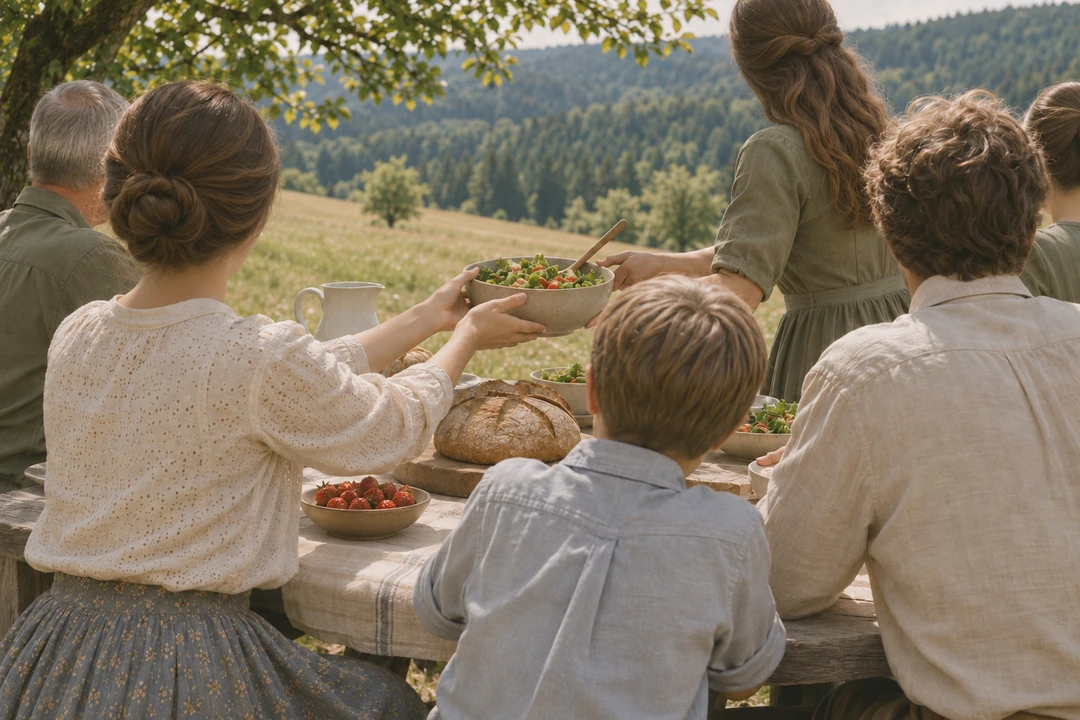
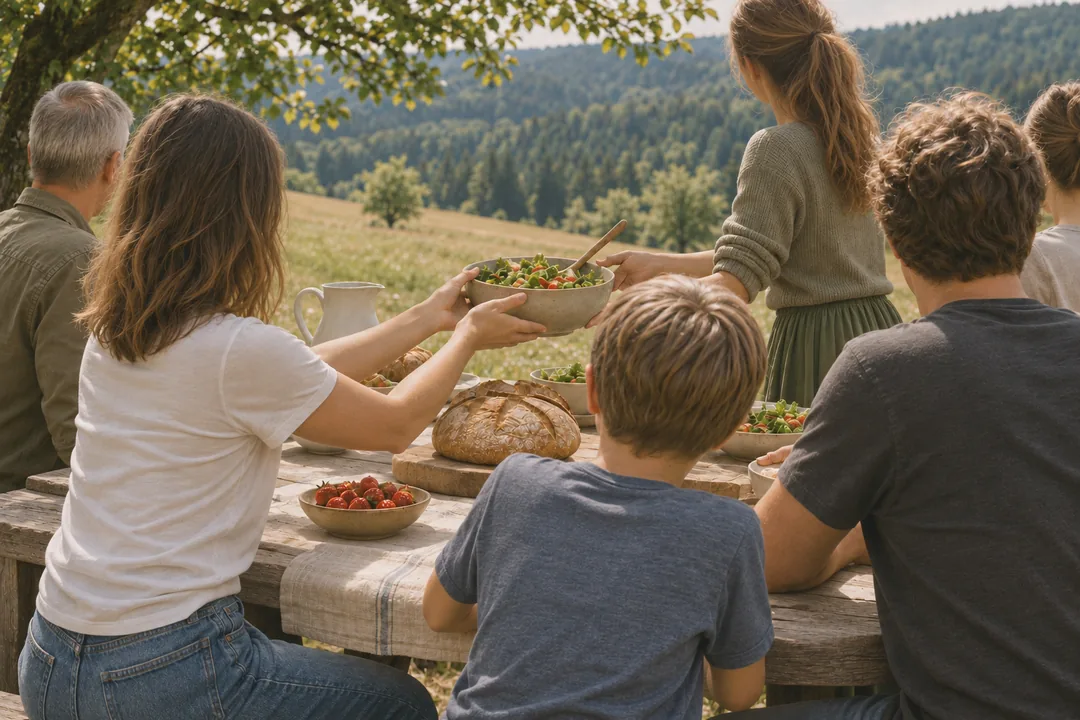
Bildpaket v3 (Alltagskleidung), Hinweis zum gemeinsamen Buchen
- Sieben Personenmotive und das Vorschaubild für geteilte Links durch das Bildpaket v3 ersetzt
- Unterkünfte: Kasten Zu zweit ein Haus teilen, Filter zeigt nötige Zustellbetten
- Anmeldung: Vorschlag passender Unterkünfte, wenn die Gruppe kleiner als die Mindestbelegung ist

diff --git a/src/components/booking/booking-wizard.tsx b/src/components/booking/booking-wizard.tsx
@@ -204,6 +204,48 @@ export function BookingWizard({
     goTo(2);
   }
 
+  /**
+   * Die Gruppe ist kleiner als die Mindestbelegung: Unterkünfte, die für eine Person weniger passen.
+   * Freie Unterkünfte zuerst.
+   */
+  const smallerGroup = range.min - 1;
+  const smallerOptions =
+    selectedType && !isSoldOut && smallerGroup >= 1
+      ? houseTypes
+          .filter((ht) => {
+            if (ht.id === selectedType.id) return false;
+            const r = guestRange(ht, rates.maxExtraBeds);
+            return smallerGroup >= r.min && smallerGroup <= r.max;
+          })
+          .map((ht) => ({
+            houseType: ht,
+            free: availability
+              ? (availability.find((a) => a.house_type_id === ht.id)?.available_count ?? 0)
+              : null,
+          }))
+          .filter((o) => o.free === null || o.free > 0)
+      : [];
+
+  /** Auf eine andere Unterkunft wechseln und die Gästeliste auf die gewünschte Größe bringen */
+  function switchHouseType(houseType: HouseType, wanted: number) {
+    if (houseType.id !== selectedTypeId) setSelectedHouseId(null);
+    setSelectedTypeId(houseType.id);
+    setExtraBeds(0);
+    setError(null);
+    const { min, max } = guestRange(houseType, rates.maxExtraBeds);
+    const target = Math.min(Math.max(wanted, min), max);
+    setGuests((prev) => {
+      const next = [...prev];
+      // zuerst leere Gäste von hinten entfernen, ausgefüllte bleiben erhalten
+      for (let i = next.length - 1; i >= 1 && next.length > target; i--) {
+        if (!next[i].first_name.trim()) next.splice(i, 1);
+      }
+      next.length = Math.min(next.length, target);
+      while (next.length < target) next.push({ ...emptyGuest, sort_order: next.length });
+      return next.map((g, i) => ({ ...g, sort_order: i }));
+    });
+  }
+
   function updateGuest(index: number, field: keyof GuestData, value: string | boolean) {
     setGuests((prev) => prev.map((g, i) => (i === index ? { ...g, [field]: value } : g)));
   }
@@ -725,7 +767,7 @@ export function BookingWizard({
                 <p className="text-small">
                   {isSoldOut
                     ? "Tragt trotzdem alle Gäste ein, dann können wir euch direkt übernehmen, sobald eine Unterkunft frei wird."
-                    : `Alle Personen, die im ${selectedType.name} übernachten: mindestens ${range.min}, höchstens ${range.max}. Das Geburtsdatum brauchen wir für die Kurtaxe.`}
+                    : `Alle Personen, die im ${selectedType.name} übernachten: mindestens ${range.min}, höchstens ${range.max}. Das Geburtsdatum brauchen wir für die Kurtaxe. Ihr teilt euch die Unterkunft mit einer zweiten Familie? Dann tragt einfach alle Personen hier ein.`}
                 </p>
                 <div className="mt-3 rounded-lg bg-sage p-[13px] text-[15px] leading-[1.55]">
                   <strong className="font-semibold">Mithelfen:</strong> Die Freizeit lebt davon, dass alle
@@ -881,6 +923,46 @@ export function BookingWizard({
                     <Plus className="h-[17px] w-[17px]" aria-hidden="true" />
                     Weiteren Gast hinzufügen
                   </button>
+                )}
+
+                {!isSoldOut && guests.length <= range.min && (
+                  <div className="mt-4 rounded-lg border border-border bg-card p-4 text-[15px] leading-[1.55]" data-smaller-hint="">
+                    <p>
+                      <strong className="font-semibold">Ihr seid weniger als {range.min} Personen?</strong>{" "}
+                      {selectedType.name} hat {selectedType.max_guests} Betten und kann mit mindestens{" "}
+                      {range.min} Personen gebucht werden.{" "}
+                      {smallerOptions.length > 0
+                        ? `Für ${smallerGroup} Personen passt besser:`
+                        : "Schaut bitte, ob eine kleinere Unterkunft passt, oder tut euch mit einer weiteren Familie zusammen."}
+                    </p>
+                    {smallerOptions.length > 0 && (
+                      <ul className="mt-3 grid gap-2">
+                        {smallerOptions.map(({ houseType: ht, free }) => {
+                          const extra = smallerGroup - ht.max_guests;
+                          return (
+                            <li key={ht.id}>
+                              <button
+                                type="button"
+                                className="flex w-full cursor-pointer flex-wrap items-center justify-between gap-x-3 gap-y-1 rounded-lg border border-border bg-background px-3 py-[9px] text-left hover:border-primary"
+                                onClick={() => switchHouseType(ht, smallerGroup)}
+                              >
+                                <span>
+                                  <span className="font-semibold">{ht.name}</span>
+                                  <span className="block text-[14px] text-muted-foreground">
+                                    {ht.max_guests} Betten
+                                    {extra > 0 && <>, mit {extra} {extra === 1 ? "Zustellbett" : "Zustellbetten"}</>} ·{" "}
+                                    {formatCurrency(ht.price_per_house)}
+                                    {free !== null && <> · {free} frei</>}
+                                  </span>
+                                </span>
+                                <span className="text-link text-[15px]">Wechseln</span>
+                              </button>
+                            </li>
+                          );
+                        })}
+                      </ul>
+                    )}
+                  </div>
                 )}
 
                 {!isSoldOut && rates.maxExtraBeds > 0 && (

diff --git a/src/components/stays/stay-comparison.tsx b/src/components/stays/stay-comparison.tsx
@@ -53,6 +53,17 @@ export function StayComparison({
     return persons >= min && persons <= max;
   });
 
+  /** Bei gewählter Personenzahl sagen, ob Betten frei bleiben oder Zustellbetten gebraucht werden */
+  const fitNote = (ht: HouseType): string | null => {
+    if (persons === "all") return null;
+    const extra = persons - ht.max_guests;
+    if (extra > 0) {
+      return `Für ${persons} Personen mit ${extra} ${extra === 1 ? "Zustellbett" : "Zustellbetten"} (${formatCurrency(rates.extraBedPricePerDay)} pro Bett und Tag)`;
+    }
+    if (extra < 0) return `Für ${persons} Personen, ein Bett bleibt frei`;
+    return `Passt genau für ${persons} Personen`;
+  };
+
   const availableFor = (id: string): number | null => {
     if (!availability) return null;
     return availability.find((a) => a.house_type_id === id)?.available_count ?? 0;
@@ -97,6 +108,20 @@ export function StayComparison({
         )}
       </div>
 
+      {showFilter && (
+        <div className="mb-[18px] rounded-xl border border-border bg-card px-4 py-[14px] text-[15px] leading-[1.6] wide:px-5" data-share-hint="">
+          <strong className="font-semibold">Zu zweit ein Haus teilen:</strong> Zwei Familien können sich
+          zusammentun und gemeinsam eine Unterkunft buchen, zum Beispiel Familie X mit zwei Kindern und
+          Familie Y mit zwei Kindern, zusammen acht Personen. Über die Personenzahl seht ihr, welche
+          Unterkunft für euch passt. Eine Familie meldet alle an und überweist den Betrag.{" "}
+          {maxPersons >= 8 && (
+            <button type="button" className="text-link text-[15px]" onClick={() => setPersons(8)}>
+              Unterkünfte für 8 Personen zeigen
+            </button>
+          )}
+        </div>
+      )}
+
       {!availability && (
         <p className="mb-4 rounded-lg bg-sage px-4 py-3 text-[15px] text-foreground">
           Die Verfügbarkeit ist gerade nicht abrufbar. Ihr könnt trotzdem vergleichen, die
@@ -122,6 +147,7 @@ export function StayComparison({
               selectHref={onSelect ? undefined : selectHref(ht)}
               onDetails={() => setDetailId(detailId === ht.id ? null : ht.id)}
               detailsOpen={detailId === ht.id}
+              fitNote={fitNote(ht)}
             />
           ))}
         </div>

diff --git a/src/components/stays/stay-card.tsx b/src/components/stays/stay-card.tsx
@@ -22,6 +22,8 @@ interface StayCardProps {
   onDetails?: () => void;
   detailsHref?: string;
   detailsOpen?: boolean;
+  /** Hinweis zur gewählten Personenzahl, zum Beispiel "Für 8 Personen mit 2 Zustellbetten" */
+  fitNote?: string | null;
 }
 
 export function StayCard({
@@ -34,6 +36,7 @@ export function StayCard({
   onDetails,
   detailsHref,
   detailsOpen = false,
+  fitNote = null,
 }: StayCardProps) {
   const state = availabilityState(availableCount);
   const soldOut = state === "soldout";
@@ -71,6 +74,9 @@ export function StayCard({
       </div>
 
       <h3 className="text-[19px] font-semibold leading-[1.35] text-foreground">{houseType.name}</h3>
+      {fitNote && (
+        <p className="-mt-[6px] rounded-md bg-sage px-[10px] py-[6px] text-[14px] leading-[1.45]">{fitNote}</p>
+      )}
 
       {houseType.description && (
         <p className="flex-1 text-[16px] leading-[1.7] text-muted-foreground wide:text-[15px]">

diff --git a/src/app/informationen/page.tsx b/src/app/informationen/page.tsx
@@ -56,7 +56,7 @@ const einrichtungen = [
     text: "Überdachter Grillplatz auf dem Gelände, der allen Gästen offensteht. Ideal für gemeinsame Abende.",
     image: "/images/grill.webp",
     alt: "Zwei Personen von hinten beim gemeinsamen Grillen im Grünen.",
-    position: "object-[50%_20%]",
+    position: "object-[50%_5%]",
   },
   {
     title: "Waschraum",
